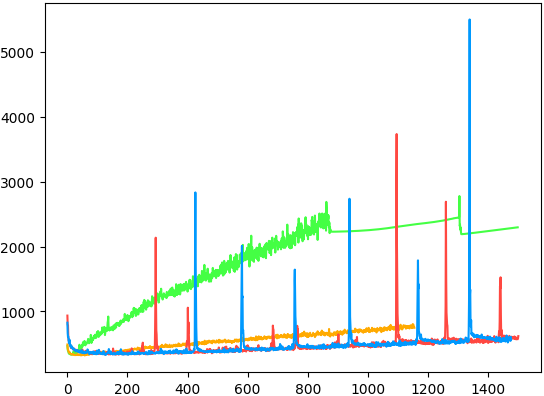
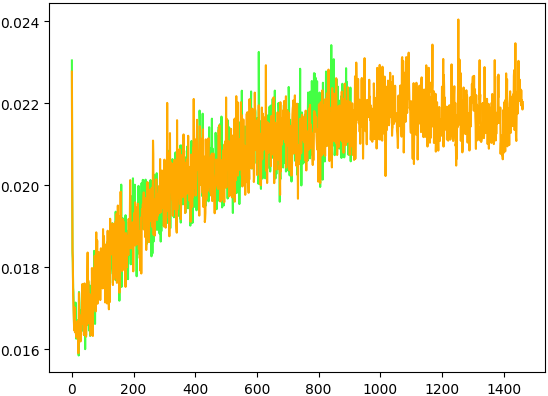
dropout

diff --git a/dropout/trainer.py b/dropout/trainer.py
@@ -41,9 +41,35 @@ def _run(session, models, targets, x, y, training, n_batch=1000):
     return [r / x.shape[0] for r in results]
 
 
+def _get_confidence(session, models, test_x, test_y, args):
+    """
+        Reference: https://arxiv.org/pdf/1703.00410.pdf
+    """
+    y_probs = []
+    for t in tqdm(range(50)):
+        y_prob = session.run(
+            models['y_prob'],
+            feed_dict={
+                models['x']: test_x,
+                models['y']: test_y,
+                models['training']: True,
+            })
+        y_probs.append(y_prob)
+    y_probs = np.stack(y_probs, axis=2)
+
+    left = np.mean(np.sum(np.square(y_probs), axis=1), axis=1)
+    right = np.sum(np.square(np.mean(y_probs, axis=2)), axis=1)
+    confidences = left - right
+    return np.mean(confidences), np.std(confidences)
+
+
 def train(args):
     dataset = Dataset(
-        args.dataset, dataset_seed=args.dataset_seed, n_valid=args.n_valid)
+        args.dataset,
+        dataset_seed=args.dataset_seed,
+        n_valid=args.n_valid,
+        sparsity_normalization=True
+        if args.mode == 'default-with-sn' else False)
     train_x = dataset.train_x
     train_y = dataset.train_y
     valid_x = dataset.valid_x
@@ -103,6 +129,9 @@ def train(args):
             False,
             n_batch=args.n_batch)
 
+        test_confidence_mean, test_confidence_std = _get_confidence(
+            session, models, test_x, test_y, args)
+
         if max_valid_acc + 1e-5 < valid_acc:
             max_valid_acc = valid_acc
             max_valid_epoch_idx = epoch_idx
@@ -113,8 +142,14 @@ def train(args):
             max_test_epoch_idx = epoch_idx
 
         print('')
-        print('%6d' % epoch_idx, '%.2f' % train_loss, '%.4f' % train_acc,
-              '%.4f' % valid_acc, '%.4f' % test_acc)
+        print(
+            '%6d' % epoch_idx,
+            '%.2f' % train_loss,
+            '%.4f' % train_acc,
+            '%.4f' % valid_acc,
+            '%.4f' % test_acc,
+            '%.6f' % test_confidence_mean,
+            '%.6f' % test_confidence_std, )
         print('%6d' % max_valid_epoch_idx, '%.4f' % max_valid_acc,
               '%.4f' % final_test_acc)
         print('%6d' % max_test_epoch_idx, '%.4f' % max_test_acc)
@@ -123,8 +158,15 @@ def train(args):
                             '\t'.join(
                                 str(t)
                                 for t in [
-                                    epoch_idx, train_loss, valid_loss,
-                                    test_loss, train_acc, valid_acc, test_acc
+                                    epoch_idx,
+                                    train_loss,
+                                    valid_loss,
+                                    test_loss,
+                                    train_acc,
+                                    valid_acc,
+                                    test_acc,
+                                    test_confidence_mean,
+                                    test_confidence_std,
                                 ]))
 
         if epoch_idx > max_valid_epoch_idx + args.epoch_early_stop:
@@ -150,8 +192,8 @@ def main():
     parser.add_argument(
         '--dataset',
         type=str,
-        # default='mnist',
-        default='fashion',
+        default='mnist',
+        # default='fashion',
         # default='cifar10',
         # default='cifar100',
         choices=['mnist', 'fashion', 'cifar10', 'cifar100'],
@@ -210,11 +252,18 @@ def main():
     parser.add_argument(
         '--mode',
         type=str,
-        default='none',  # no dropout
+        # default='none',
         # default='default',
+        default='default-with-sn',
         # default='expectation',
         # default='exact',
-        choices=['none', 'default', 'expectation', 'exact'],
+        choices=[
+            'none',  # no dropout
+            'default',
+            'default-with-sn',
+            'expectation',
+            'exact',
+        ],
         help='')
     parser.add_argument(
         '--learning_rate',

diff --git a/dropout/model.py b/dropout/model.py
@@ -18,19 +18,21 @@ def _forward(x, weights, biases, training, args):
 
             if args.mode == 'none':
                 pass
-            elif args.mode == 'default':
+            elif args.mode == 'default' or args.mode == 'default-with-sn':
                 layer = tf.layers.dropout(
                     layer, args.drop_rate, training=training)
             elif args.mode == 'expectation':
                 r = tf.random.uniform(
                     (1, tf.shape(layer)[1]), minval=0., maxval=1.)
-                m = tf.where(r < args.drop_rate, tf.zeros_like(r), tf.ones_like(r))
+                m = tf.where(r < args.drop_rate,
+                             tf.zeros_like(r), tf.ones_like(r))
                 train_layer = tf.multiply(layer, m) / (1 - args.drop_rate)
                 layer = tf.cond(training, lambda: train_layer, lambda: layer)
             elif args.mode == 'exact':
                 r = tf.random.uniform(
                     (1, tf.shape(layer)[1]), minval=0., maxval=1.)
-                m = tf.where(r < args.drop_rate, tf.zeros_like(r), tf.ones_like(r))
+                m = tf.where(r < args.drop_rate,
+                             tf.zeros_like(r), tf.ones_like(r))
                 train_layer = tf.multiply(layer, m) * tf.cast(
                     tf.shape(layer)[1], tf.float32) / tf.reduce_sum(
                         m, keepdims=True)
@@ -69,6 +71,7 @@ def init_models(args, n_in, n_out):
     weights, biases = _init_weights(args, n_in, n_out)
 
     y_hat = _forward(x, weights, biases, training, args)
+    y_prob = tf.nn.softmax(y_hat)
 
     costs = tf.nn.softmax_cross_entropy_with_logits_v2(
         labels=y_hot, logits=y_hat)
@@ -81,6 +84,7 @@ def init_models(args, n_in, n_out):
     return {
         'x': x,
         'y': y,
+        'y_prob': y_prob,
         'training': training,
         'loss': loss,
         'accuracy': accuracy,

diff --git a/dropout/plotter.py b/dropout/plotter.py
@@ -3,7 +3,7 @@ import numpy as np
 
 
 def _load_data(mode):
-    f = open('.results/dropout/fashion/epochs/{}.txt'.format(mode), 'r')
+    f = open('.results/dropout/mnist/epochs/{}.txt'.format(mode), 'r')
     rows = []
     for line in f:
         cols = [float(v) for v in line.strip().split('\t')]
@@ -13,7 +13,8 @@ def _load_data(mode):
 
 def main():
     default_result = _load_data('default')
-    none_result = _load_data('none')
+    # none_result = _load_data('none')
+    default_with_sn_result = _load_data('default-with-sn')
     expectation_result = _load_data('expectation')
     exact_result = _load_data('exact')
 
@@ -24,13 +25,13 @@ def main():
     green = '#44FF44'
     orange = '#FFAA00'
 
-    target_idx = 3
+    target_idx = 7
     ax = axs
     ax.plot(
-        none_result[:, 0],
-        none_result[:, target_idx],
+        default_with_sn_result[:, 0],
+        default_with_sn_result[:, target_idx],
         color=green,
-        label='none')
+        label='default-with-sn')
 
     ax.plot(
         default_result[:, 0],
@@ -38,17 +39,17 @@ def main():
         color=orange,
         label='default')
 
-    ax.plot(
-        expectation_result[:, 0],
-        expectation_result[:, target_idx],
-        color=red,
-        label='expectation')
-
-    ax.plot(
-        exact_result[:, 0],
-        exact_result[:, target_idx],
-        color=blue,
-        label='exact')
+    # ax.plot(
+    #     expectation_result[:, 0],
+    #     expectation_result[:, target_idx],
+    #     color=red,
+    #     label='expectation')
+    #
+    # ax.plot(
+    #     exact_result[:, 0],
+    #     exact_result[:, target_idx],
+    #     color=blue,
+    #     label='exact')
     # ax.set_ylim([0.88, 0.91])
     # ax.set_ylim([0.8, 0.91])
 
